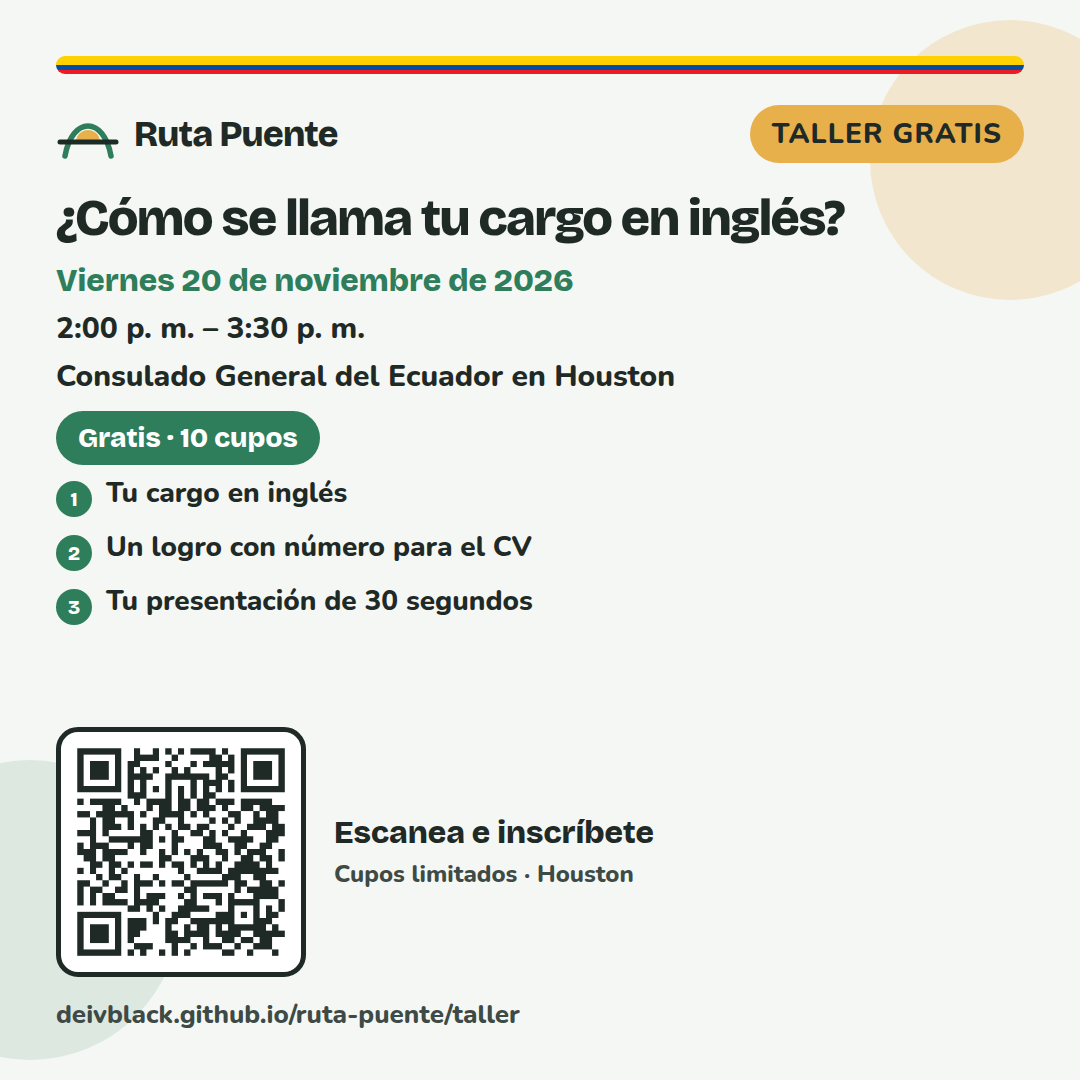
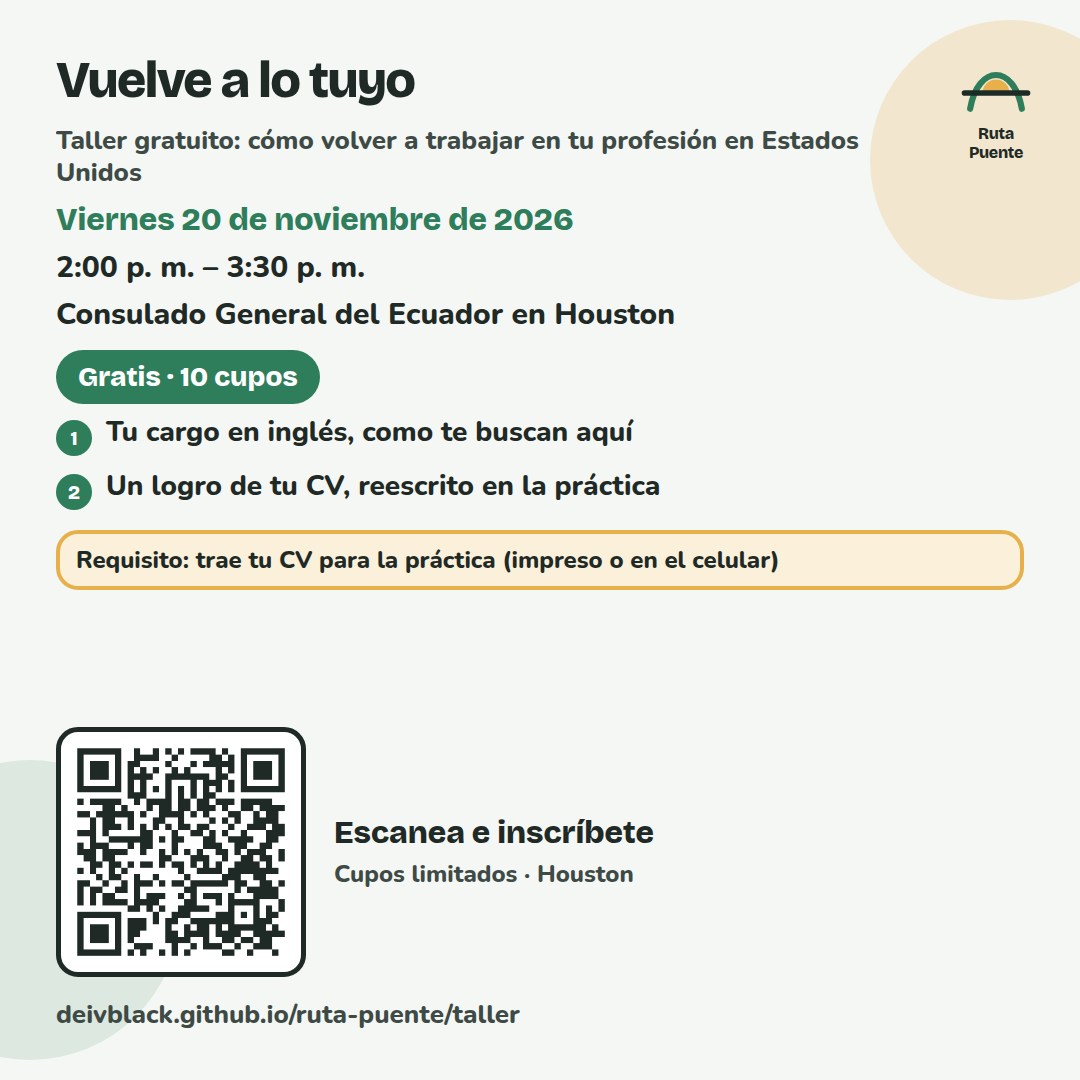
Cambia el flyer a «Vuelve a lo tuyo», sin bandera y con requisito de CV.
Logo de Ruta Puente en la esquina, dos beneficios y traer el CV para la práctica.

Changed region(s): [[0.0306, 0.0306, 0.9472, 0.5806]]

diff --git a/contenido/taller-20nov/plantillas/lienzo.html b/contenido/taller-20nov/plantillas/lienzo.html
@@ -57,6 +57,41 @@ html,body{background:#111;margin:0}
 .brand b{font-family:var(--f-d);font-weight:800;font-size:36px;letter-spacing:-.02em}
 #lienzo[data-formato="historia"] .brand svg{width:72px;height:72px}
 #lienzo[data-formato="historia"] .brand b{font-size:42px}
+#lienzo[data-tipo="flyer"] .bandera,
+#lienzo[data-tipo="flyer"] .head{display:none}
+.logo-esquina{
+  display:none; position:absolute; z-index:2;
+  flex-direction:column; align-items:center; gap:4px;
+  pointer-events:none;
+}
+#lienzo[data-tipo="flyer"] .logo-esquina{display:flex}
+#lienzo[data-formato="historia"] .logo-esquina{top:268px;right:72px}
+#lienzo[data-formato="post"] .logo-esquina{top:64px;right:64px}
+#lienzo[data-formato="facebook"] .logo-esquina{top:48px;right:48px}
+.logo-esquina svg{width:88px;height:88px}
+#lienzo[data-formato="historia"] .logo-esquina svg{width:108px;height:108px}
+#lienzo[data-formato="facebook"] .logo-esquina svg{width:72px;height:72px}
+.logo-esquina span{
+  font-family:var(--f-d); font-weight:800; color:var(--ink); letter-spacing:-.02em; text-align:center;
+}
+#lienzo[data-formato="historia"] .logo-esquina span{font-size:22px}
+#lienzo[data-formato="post"] .logo-esquina span{font-size:18px}
+#lienzo[data-formato="facebook"] .logo-esquina span{font-size:16px}
+#lienzo[data-tipo="flyer"] h1,
+#lienzo[data-tipo="flyer"] .sub{padding-right:150px}
+#lienzo[data-formato="historia"][data-tipo="flyer"] h1{padding-right:180px;font-size:88px}
+#lienzo[data-formato="historia"][data-tipo="flyer"] .sub{padding-right:180px}
+.sub{font-weight:800;line-height:1.2;margin:0 0 22px;color:var(--muted)}
+#lienzo[data-formato="historia"] .sub{font-size:48px;margin-bottom:28px}
+#lienzo[data-formato="post"] .sub{font-size:30px}
+#lienzo[data-formato="facebook"] .sub{font-size:26px;margin-bottom:14px}
+.req{
+  background:var(--sun-soft); border:4px solid var(--sun); border-radius:22px;
+  font-weight:800; line-height:1.2; padding:16px 20px; margin-top:16px; flex:0 0 auto;
+}
+#lienzo[data-formato="historia"] .req{font-size:48px;padding:20px 24px;margin-top:24px}
+#lienzo[data-formato="post"] .req{font-size:28px}
+#lienzo[data-formato="facebook"] .req{font-size:24px;padding:12px 16px;margin-top:12px}
 .pill{
   background:var(--sun); color:var(--ink);
   font-weight:800; font-size:28px; letter-spacing:.04em;
@@ -208,6 +243,10 @@ h1{
 <div id="lienzo" data-formato="historia" data-tipo="flyer">
   <div class="blob sun"></div>
   <div class="blob hope"></div>
+  <div class="logo-esquina" aria-hidden="true">
+    <svg viewBox="0 0 64 64"><path d="M20 40a12 12 0 0 1 24 0Z" fill="#E8B04B"/><path d="M9 54 C 16 14, 48 14, 55 54" fill="none" stroke="#2E7D5B" stroke-width="5.5" stroke-linecap="round"/><path d="M4 40h56" stroke="#1D2B26" stroke-width="5" stroke-linecap="round"/></svg>
+    <span>Ruta<br>Puente</span>
+  </div>
   <div class="bandera" aria-hidden="true"><i></i><i></i><i></i></div>
   <div class="head">
     <div class="brand">
@@ -251,11 +290,16 @@ window.pintar = function(p){
     pill.textContent = "TALLER GRATIS";
     cuerpo.innerHTML =
       "<h1>" + esc(t.titulo) + "</h1>" +
+      '<p class="sub">' + esc(t.subtitulo) + "</p>" +
       '<p class="fecha">' + esc(t.fecha) + "</p>" +
       '<p class="meta">' + esc(t.hora) + "</p>" +
       '<p class="meta">' + esc(t.lugar) + "</p>" +
       '<p class="badge">Gratis · 10 cupos</p>' +
-      takes +
+      '<ul class="lista">' +
+        '<li><span class="dot">1</span><span>Tu cargo en inglés, como te buscan aquí</span></li>' +
+        '<li><span class="dot">2</span><span>Un logro de tu CV, reescrito en la práctica</span></li>' +
+      "</ul>" +
+      '<p class="req">Requisito: trae tu CV para la práctica (impreso o en el celular)</p>' +
       qrBlock(p, "Escanea e inscríbete", "Cupos limitados · Houston");
   } else if (p.tipo === "cuenta"){
     pill.textContent = "TALLER GRATIS";

diff --git a/taller/index.html b/taller/index.html
@@ -3,10 +3,10 @@
 <head>
 <meta charset="utf-8">
 <meta name="viewport" content="width=device-width, initial-scale=1, viewport-fit=cover">
-<title>Taller gratuito · ¿Cómo se llama tu cargo en inglés? · Ruta Puente</title>
+<title>Taller gratuito · Vuelve a lo tuyo · Ruta Puente</title>
 <meta name="description" content="Taller gratuito para profesionales latinos en EE. UU.: tu cargo en inglés y tu CV listo para aplicar. Viernes 20 de noviembre de 2026.">
 <meta property="og:title" content="Taller gratuito · Ruta Puente">
-<meta property="og:description" content="¿Cómo se llama tu cargo en inglés? Viernes 20 de noviembre de 2026, 2:00 p. m. Gratis.">
+<meta property="og:description" content="Vuelve a lo tuyo. Taller gratuito: cómo volver a trabajar en tu profesión en Estados Unidos. Viernes 20 de noviembre de 2026, 2:00 p. m.">
 <link rel="icon" href="../logo-icon.svg" type="image/svg+xml">
 <link rel="preconnect" href="https://fonts.googleapis.com">
 <link rel="preconnect" href="https://fonts.gstatic.com" crossorigin>
@@ -113,6 +113,7 @@ footer{padding:36px 0 8px;text-align:center;font-size:14px;color:var(--muted)}
         <li><span class="n" aria-hidden="true">2</span><span>Qué debe tener un CV para EE. UU. (y qué quitar).</span></li>
         <li><span class="n" aria-hidden="true">3</span><span>Tu siguiente paso para empezar a aplicar esta semana.</span></li>
       </ul>
+      <p class="who">Trae tu CV (impreso o en el celular) para la práctica.</p>
     </section>
 
     <section>

diff --git a/taller/afiche.html b/taller/afiche.html
@@ -2,7 +2,7 @@
 <html lang="es">
 <head>
 <meta charset="utf-8">
-<title>Afiche · Taller Ruta Puente · 20 nov 2026</title>
+<title>Afiche · Vuelve a lo tuyo · 20 nov 2026</title>
 <link rel="icon" href="../logo-icon.svg" type="image/svg+xml">
 <link rel="preconnect" href="https://fonts.googleapis.com">
 <link rel="stylesheet" href="https://fonts.googleapis.com/css2?family=Bricolage+Grotesque:opsz,wght@12..96,700;12..96,800&family=Nunito:wght@600;700;800&display=swap">
@@ -99,12 +99,12 @@ h1{
     </div>
     <span class="tag">TALLER GRATUITO</span>
   </div>
-  <h1>¿Cómo se llama tu cargo en inglés?</h1>
-  <p class="sub">Para profesionales latinos que hoy trabajan en algo distinto a lo que estudiaron.</p>
+  <h1>Vuelve a lo tuyo</h1>
+  <p class="sub">Taller gratuito: cómo volver a trabajar en tu profesión en Estados Unidos.</p>
   <ul class="takes">
     <li><span class="n">1</span><span>Tu cargo en inglés y cómo te buscan los reclutadores.</span></li>
-    <li><span class="n">2</span><span>Qué debe tener un CV para EE. UU. (y qué quitar).</span></li>
-    <li><span class="n">3</span><span>Tu siguiente paso para aplicar esta semana.</span></li>
+    <li><span class="n">2</span><span>Un logro de tu CV, reescrito en la práctica.</span></li>
+    <li><span class="n">3</span><span>Trae tu CV (impreso o en el celular) para practicar.</span></li>
   </ul>
   <div class="bloque">
     <p class="k">Cuándo y dónde</p>

diff --git a/taller/config.js b/taller/config.js
@@ -1,8 +1,8 @@
 // Único lugar para los datos del taller del 20 de noviembre.
 // Cambia aquí hora, lugar, dirección, apoyo y cupos. La página, el afiche y el kit leen esto.
 const TALLER = {
-  titulo: "¿Cómo se llama tu cargo en inglés?",
-  subtitulo: "Taller gratuito para profesionales latinos: tu cargo en EE. UU. y tu CV listo para aplicar",
+  titulo: "Vuelve a lo tuyo",
+  subtitulo: "Taller gratuito: cómo volver a trabajar en tu profesión en Estados Unidos",
   fecha: "Viernes 20 de noviembre de 2026",
   hora: "2:00 p. m. – 3:30 p. m.",
   lugar: "Consulado General del Ecuador en Houston",

diff --git a/contenido/taller-20nov/copys.md b/contenido/taller-20nov/copys.md
@@ -1,7 +1,7 @@
 # Copys · Taller 20 nov 2026
 
 Fuente de fecha, hora y lugar: `taller/config.js` (no cambiar a mano aquí).
-Taller: **¿Cómo se llama tu cargo en inglés?** · Viernes 20 de noviembre de 2026 · 2:00 p. m. – 3:30 p. m. · Consulado General del Ecuador en Houston · 2603 Augusta Dr #810, Houston, TX 77057.
+Taller: **Vuelve a lo tuyo** · Taller gratuito: cómo volver a trabajar en tu profesión en Estados Unidos · Viernes 20 de noviembre de 2026 · 2:00 p. m. – 3:30 p. m. · Consulado General del Ecuador en Houston · 2603 Augusta Dr #810, Houston, TX 77057.
 Público: 10 cupos (hay 13 en la hoja para inasistencias).
 Saludo: **querida comunidad**. Nunca «paisanos». No hablar de papeles ni de estatus. No prometer empleo.
 
@@ -36,7 +36,7 @@ Inscríbete: https://deivblack.github.io/ruta-puente/taller/?utm=diana
 ```
 Querida comunidad:
 
-Les escribo porque este viernes 20 de noviembre hay un taller gratis que me parece útil: «¿Cómo se llama tu cargo en inglés?».
+Les escribo porque este viernes 20 de noviembre hay un taller gratis que me parece útil: «Vuelve a lo tuyo».
 
 Lo da David Moreno, de Ruta Puente. Es de aquí, de Houston. En 90 minutos te ayudan a ponerle nombre en inglés a tu profesión, a dejar un logro claro en el CV y a practicar cómo te presentas.
 
@@ -80,7 +80,7 @@ https://deivblack.github.io/ruta-puente/taller/?utm=diana
 ```
 Hola [nombre], querida comunidad de una sola persona.
 
-Te escribo porque el viernes 20 de noviembre hay un taller gratis que me hizo pensar en ti: «¿Cómo se llama tu cargo en inglés?». Es de 2:00 a 3:30 p. m. en el Consulado General del Ecuador en Houston.
+Te escribo porque el viernes 20 de noviembre hay un taller gratis que me hizo pensar en ti: «Vuelve a lo tuyo». Es de 2:00 a 3:30 p. m. en el Consulado General del Ecuador en Houston.
 
 Lo da David Moreno, de Ruta Puente. Sales con tu cargo en inglés, un logro para el CV y tu presentación corta. Solo 10 cupos.
 
@@ -103,7 +103,7 @@ Querida comunidad:
 
 Llevo más de 15 años en capacitación y talento humano. Hoy, aquí en Houston, soy mesero y ayudo en un almacén. No es que mi título no sirva. Es que el mercado pide el cargo en inglés y un CV que se entienda a la primera.
 
-El viernes 20 de noviembre, de 2:00 a 3:30 p. m., doy un taller gratis en el Consulado General del Ecuador en Houston: «¿Cómo se llama tu cargo en inglés?». En 90 minutos sales con tu cargo, un logro con número para el CV, tu presentación de 30 segundos y un plan de 7 días. Hay 10 cupos.
+El viernes 20 de noviembre, de 2:00 a 3:30 p. m., doy un taller gratis en el Consulado General del Ecuador en Houston: «Vuelve a lo tuyo». En 90 minutos sales con tu cargo, un logro con número para el CV, tu presentación de 30 segundos y un plan de 7 días. Hay 10 cupos.
 
 ¿Sabes cómo se llama tu profesión en inglés?
 
